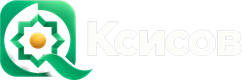
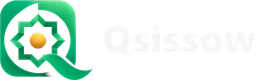
Название Ксисов → Qsissow: логотип, заголовки, тексты, разметка, превью ссылки

diff --git a/index.html b/index.html
@@ -3,7 +3,7 @@
 <head>
 <meta charset="utf-8">
 <meta name="viewport" content="width=device-width, initial-scale=1, viewport-fit=cover">
-<title>Ксисов · Telegram-боты для бизнеса в Ташкенте</title>
+<title>Qsissow · Telegram-боты для бизнеса в Ташкенте</title>
 <meta name="description" content="Telegram-боты, которые записывают клиентов в салоны, клиники и автосервисы. Сайты и автоматизация. Цена до начала работы, оплата 50/50.">
 <meta name="theme-color" content="#07110d">
 <link rel="icon" type="image/png" href="favicon.png">
@@ -14,7 +14,7 @@
 <link rel="alternate" hreflang="x-default" href="https://timonparpiev-code.github.io/">
 <meta property="og:type" content="website">
 <meta property="og:locale" content="ru_RU">
-<meta property="og:title" content="Ксисов · Telegram-боты для бизнеса в Ташкенте">
+<meta property="og:title" content="Qsissow · Telegram-боты для бизнеса в Ташкенте">
 <meta property="og:description" content="Telegram-боты, которые записывают клиентов в салоны, клиники и автосервисы. Сайты и автоматизация. Цена до начала работы, оплата 50/50.">
 <meta property="og:url" content="https://timonparpiev-code.github.io/">
 <meta property="og:image" content="https://timonparpiev-code.github.io/og.png">
@@ -25,7 +25,7 @@
 <link rel="preconnect" href="https://fonts.gstatic.com" crossorigin>
 <link rel="stylesheet" href="https://fonts.googleapis.com/css2?family=Onest:wght@400;500;600;700;800&family=JetBrains+Mono:wght@400;600&display=swap">
 <style>body{margin:0}img{max-width:100%}:root{padding-top:env(safe-area-inset-top,0px);padding-bottom:env(safe-area-inset-bottom,0px)}.lang{font:600 13px var(--mono);color:var(--muted);text-decoration:none;border:1px solid var(--line);border-radius:8px;padding:6px 9px}.lang:hover{color:var(--ink);border-color:var(--green)}</style>
-<script type="application/ld+json">{"@context": "https://schema.org", "@type": "ProfessionalService", "name": "Ксисов", "description": "Telegram-боты, которые записывают клиентов в салоны, клиники и автосервисы. Сайты и автоматизация. Цена до начала работы, оплата 50/50.", "url": "https://timonparpiev-code.github.io/", "image": "https://timonparpiev-code.github.io/og.png", "logo": "https://timonparpiev-code.github.io/apple-touch-icon.png", "areaServed": {"@type": "City", "name": "Ташкент"}, "address": {"@type": "PostalAddress", "addressLocality": "Tashkent", "addressCountry": "UZ"}, "priceRange": "$20–$120", "inLanguage": "ru", "sameAs": ["https://t.me/qsissow"], "contactPoint": {"@type": "ContactPoint", "contactType": "sales", "url": "https://t.me/qsissow", "availableLanguage": ["ru", "uz"]}}</script>
+<script type="application/ld+json">{"@context": "https://schema.org", "@type": "ProfessionalService", "name": "Qsissow", "description": "Telegram-боты, которые записывают клиентов в салоны, клиники и автосервисы. Сайты и автоматизация. Цена до начала работы, оплата 50/50.", "url": "https://timonparpiev-code.github.io/", "image": "https://timonparpiev-code.github.io/og.png", "logo": "https://timonparpiev-code.github.io/apple-touch-icon.png", "areaServed": {"@type": "City", "name": "Ташкент"}, "address": {"@type": "PostalAddress", "addressLocality": "Tashkent", "addressCountry": "UZ"}, "priceRange": "$20–$120", "inLanguage": "ru", "sameAs": ["https://t.me/qsissow"], "contactPoint": {"@type": "ContactPoint", "contactType": "sales", "url": "https://t.me/qsissow", "availableLanguage": ["ru", "uz"]}}</script>
 <style>
 /* Layout: тёмно-зелёный сайт мастера-одиночки. Заголовки слева, прайс как доска в барбершопе,
    калькулятор как кассовый чек, в первом экране два iPhone: клиент записывается, владельцу падают уведомления. */
@@ -421,7 +421,7 @@ footer .wrap{display:flex;justify-content:space-between;gap:16px;flex-wrap:wrap}
 
 <header class="band">
   <div class="wrap bar">
-    <a class="brand" href="#top" aria-label="Ксисов, на главную"><img src="img-1.png" alt="Ксисов" height="40"></a>
+    <a class="brand" href="#top" aria-label="Qsissow, на главную"><img src="img-1.png" alt="Qsissow" height="40"></a>
     <nav aria-label="Разделы"><a href="#price">Услуги</a><a href="#who">Сферы</a><a href="#calc">Калькулятор</a><a href="#work">Работы</a><a href="#faq">Вопросы</a></nav>
     <div class="bar-right"><a class="lang" href="uz.html" hreflang="uz" title="O'zbekcha">UZ</a>
       <a class="handle" href="https://t.me/qsissow" target="_blank" rel="noopener">@qsissow</a>
@@ -435,7 +435,7 @@ footer .wrap{display:flex;justify-content:space-between;gap:16px;flex-wrap:wrap}
     <div class="hero-copy">
       <span class="where"><i></i>Ташкент · сейчас <span class="js-time">--:--</span></span>
       <h1><span class="w">Клиенты</span> <span class="w" style="animation-delay:.08s">записываются</span> <span class="w g" style="animation-delay:.16s">сами.<svg viewBox="0 0 200 20" preserveAspectRatio="none" aria-hidden="true"><path d="M3 14 C 50 4, 120 4, 197 11"/></svg></span><br><span class="w" style="animation-delay:.26s">Вы</span> <span class="w" style="animation-delay:.32s">просто</span> <span class="w" style="animation-delay:.38s">работаете.</span></h1>
-      <p class="lead">Меня зовут Ксисов. Я делаю Telegram-ботов для салонов, клиник и автосервисов: бот показывает свободное время, принимает запись, напоминает клиенту о визите и сразу пишет вам.</p>
+      <p class="lead">Меня зовут Qsissow. Я делаю Telegram-ботов для салонов, клиник и автосервисов: бот показывает свободное время, принимает запись, напоминает клиенту о визите и сразу пишет вам.</p>
       <div class="cta">
         <a class="btn tg" href="https://t.me/qsissow" target="_blank" rel="noopener"><svg width="20" height="20"><use href="#tg"/></svg>Написать в Telegram</a>
         <a class="link" href="#price">Сколько стоит ↓</a>
@@ -642,7 +642,7 @@ footer .wrap{display:flex;justify-content:space-between;gap:16px;flex-wrap:wrap}
   </div>
 </div>
 
-<footer class="band"><div class="wrap"><span style="display:flex;align-items:center;gap:14px"><img src="img-1.png" alt="Ксисов" height="32" style="height:32px;width:auto">Telegram-боты, сайты и автоматизация · Ташкент</span><span>Пишите в Telegram: @qsissow</span></div></footer>
+<footer class="band"><div class="wrap"><span style="display:flex;align-items:center;gap:14px"><img src="img-1.png" alt="Qsissow" height="32" style="height:32px;width:auto">Telegram-боты, сайты и автоматизация · Ташкент</span><span>Пишите в Telegram: @qsissow</span></div></footer>
 <a class="fab" href="https://t.me/qsissow" target="_blank" rel="noopener" aria-label="Написать в Telegram"><svg><use href="#tg"/></svg></a>
 
 <script>

diff --git a/uz.html b/uz.html
@@ -3,7 +3,7 @@
 <head>
 <meta charset="utf-8">
 <meta name="viewport" content="width=device-width, initial-scale=1, viewport-fit=cover">
-<title>Ksisov · Toshkentda biznes uchun Telegram-botlar</title>
+<title>Qsissow · Toshkentda biznes uchun Telegram-botlar</title>
 <meta name="description" content="Salon, klinika va avtoservislarga mijozlarni yozib oladigan Telegram-botlar. Saytlar va avtomatlashtirish. Narx ishdan oldin, to'lov 50/50.">
 <meta name="theme-color" content="#07110d">
 <link rel="icon" type="image/png" href="favicon.png">
@@ -14,7 +14,7 @@
 <link rel="alternate" hreflang="x-default" href="https://timonparpiev-code.github.io/">
 <meta property="og:type" content="website">
 <meta property="og:locale" content="uz_UZ">
-<meta property="og:title" content="Ksisov · Toshkentda biznes uchun Telegram-botlar">
+<meta property="og:title" content="Qsissow · Toshkentda biznes uchun Telegram-botlar">
 <meta property="og:description" content="Salon, klinika va avtoservislarga mijozlarni yozib oladigan Telegram-botlar. Saytlar va avtomatlashtirish. Narx ishdan oldin, to'lov 50/50.">
 <meta property="og:url" content="https://timonparpiev-code.github.io/uz.html">
 <meta property="og:image" content="https://timonparpiev-code.github.io/og.png">
@@ -25,7 +25,7 @@
 <link rel="preconnect" href="https://fonts.gstatic.com" crossorigin>
 <link rel="stylesheet" href="https://fonts.googleapis.com/css2?family=Onest:wght@400;500;600;700;800&family=JetBrains+Mono:wght@400;600&display=swap">
 <style>body{margin:0}img{max-width:100%}:root{padding-top:env(safe-area-inset-top,0px);padding-bottom:env(safe-area-inset-bottom,0px)}.lang{font:600 13px var(--mono);color:var(--muted);text-decoration:none;border:1px solid var(--line);border-radius:8px;padding:6px 9px}.lang:hover{color:var(--ink);border-color:var(--green)}</style>
-<script type="application/ld+json">{"@context": "https://schema.org", "@type": "ProfessionalService", "name": "Ksisov", "description": "Salon, klinika va avtoservislarga mijozlarni yozib oladigan Telegram-botlar. Saytlar va avtomatlashtirish. Narx ishdan oldin, to'lov 50/50.", "url": "https://timonparpiev-code.github.io/uz.html", "image": "https://timonparpiev-code.github.io/og.png", "logo": "https://timonparpiev-code.github.io/apple-touch-icon.png", "areaServed": {"@type": "City", "name": "Toshkent"}, "address": {"@type": "PostalAddress", "addressLocality": "Tashkent", "addressCountry": "UZ"}, "priceRange": "$20–$120", "inLanguage": "uz", "sameAs": ["https://t.me/qsissow"], "contactPoint": {"@type": "ContactPoint", "contactType": "sales", "url": "https://t.me/qsissow", "availableLanguage": ["ru", "uz"]}}</script>
+<script type="application/ld+json">{"@context": "https://schema.org", "@type": "ProfessionalService", "name": "Qsissow", "description": "Salon, klinika va avtoservislarga mijozlarni yozib oladigan Telegram-botlar. Saytlar va avtomatlashtirish. Narx ishdan oldin, to'lov 50/50.", "url": "https://timonparpiev-code.github.io/uz.html", "image": "https://timonparpiev-code.github.io/og.png", "logo": "https://timonparpiev-code.github.io/apple-touch-icon.png", "areaServed": {"@type": "City", "name": "Toshkent"}, "address": {"@type": "PostalAddress", "addressLocality": "Tashkent", "addressCountry": "UZ"}, "priceRange": "$20–$120", "inLanguage": "uz", "sameAs": ["https://t.me/qsissow"], "contactPoint": {"@type": "ContactPoint", "contactType": "sales", "url": "https://t.me/qsissow", "availableLanguage": ["ru", "uz"]}}</script>
 <style>
 /* Layout: тёмно-зелёный сайт мастера-одиночки. Заголовки слева, прайс как доска в барбершопе,
    калькулятор как кассовый чек, в первом экране два iPhone: клиент записывается, владельцу падают уведомления. */
@@ -421,7 +421,7 @@ footer .wrap{display:flex;justify-content:space-between;gap:16px;flex-wrap:wrap}
 
 <header class="band">
   <div class="wrap bar">
-    <a class="brand" href="#top" aria-label="Ksisov, bosh sahifa"><img src="img-1.png" alt="Ksisov" height="40"></a>
+    <a class="brand" href="#top" aria-label="Qsissow, bosh sahifa"><img src="img-1.png" alt="Qsissow" height="40"></a>
     <nav aria-label="Bo'limlar"><a href="#price">Xizmatlar</a><a href="#who">Sohalar</a><a href="#calc">Kalkulyator</a><a href="#work">Ishlar</a><a href="#faq">Savollar</a></nav>
     <div class="bar-right"><a class="lang" href="index.html" hreflang="ru" title="Русский">RU</a>
       <a class="handle" href="https://t.me/qsissow" target="_blank" rel="noopener">@qsissow</a>
@@ -435,7 +435,7 @@ footer .wrap{display:flex;justify-content:space-between;gap:16px;flex-wrap:wrap}
     <div class="hero-copy">
       <span class="where"><i></i>Toshkent · hozir <span class="js-time">--:--</span></span>
       <h1><span class="w">Mijozlar</span> <span class="w" style="animation-delay:.08s">o'zlari</span> <span class="w g" style="animation-delay:.16s">yoziladi.<svg viewBox="0 0 200 20" preserveAspectRatio="none" aria-hidden="true"><path d="M3 14 C 50 4, 120 4, 197 11"/></svg></span><br><span class="w" style="animation-delay:.26s">Siz</span> <span class="w" style="animation-delay:.32s">shunchaki</span> <span class="w" style="animation-delay:.38s">ishlaysiz.</span></h1>
-      <p class="lead">Mening ismim Ksisov. Salonlar, klinikalar va avtoservislar uchun Telegram-botlar yarataman: bot bo'sh vaqtni ko'rsatadi, yozuvni qabul qiladi, mijozga tashrif haqida eslatadi va darhol sizga xabar beradi.</p>
+      <p class="lead">Mening ismim Qsissow. Salonlar, klinikalar va avtoservislar uchun Telegram-botlar yarataman: bot bo'sh vaqtni ko'rsatadi, yozuvni qabul qiladi, mijozga tashrif haqida eslatadi va darhol sizga xabar beradi.</p>
       <div class="cta">
         <a class="btn tg" href="https://t.me/qsissow" target="_blank" rel="noopener"><svg width="20" height="20"><use href="#tg"/></svg>Telegram'da yozish</a>
         <a class="link" href="#price">Narxi qancha ↓</a>
@@ -642,7 +642,7 @@ footer .wrap{display:flex;justify-content:space-between;gap:16px;flex-wrap:wrap}
   </div>
 </div>
 
-<footer class="band"><div class="wrap"><span style="display:flex;align-items:center;gap:14px"><img src="img-1.png" alt="Ksisov" height="32" style="height:32px;width:auto">Telegram-botlar, saytlar va avtomatlashtirish · Toshkent</span><span>Telegram'da yozing: @qsissow</span></div></footer>
+<footer class="band"><div class="wrap"><span style="display:flex;align-items:center;gap:14px"><img src="img-1.png" alt="Qsissow" height="32" style="height:32px;width:auto">Telegram-botlar, saytlar va avtomatlashtirish · Toshkent</span><span>Telegram'da yozing: @qsissow</span></div></footer>
 <a class="fab" href="https://t.me/qsissow" target="_blank" rel="noopener" aria-label="Telegram'da yozish"><svg><use href="#tg"/></svg></a>
 
 <script>

diff --git a/README.md b/README.md
@@ -1,6 +1,6 @@
 # ksisov — сайт
 
-Сайт студии Ксисов: Telegram-боты и сайты для бизнеса в Ташкенте.
+Сайт студии Qsissow: Telegram-боты и сайты для бизнеса в Ташкенте.
 
 Адрес: https://timonparpiev-code.github.io
 
